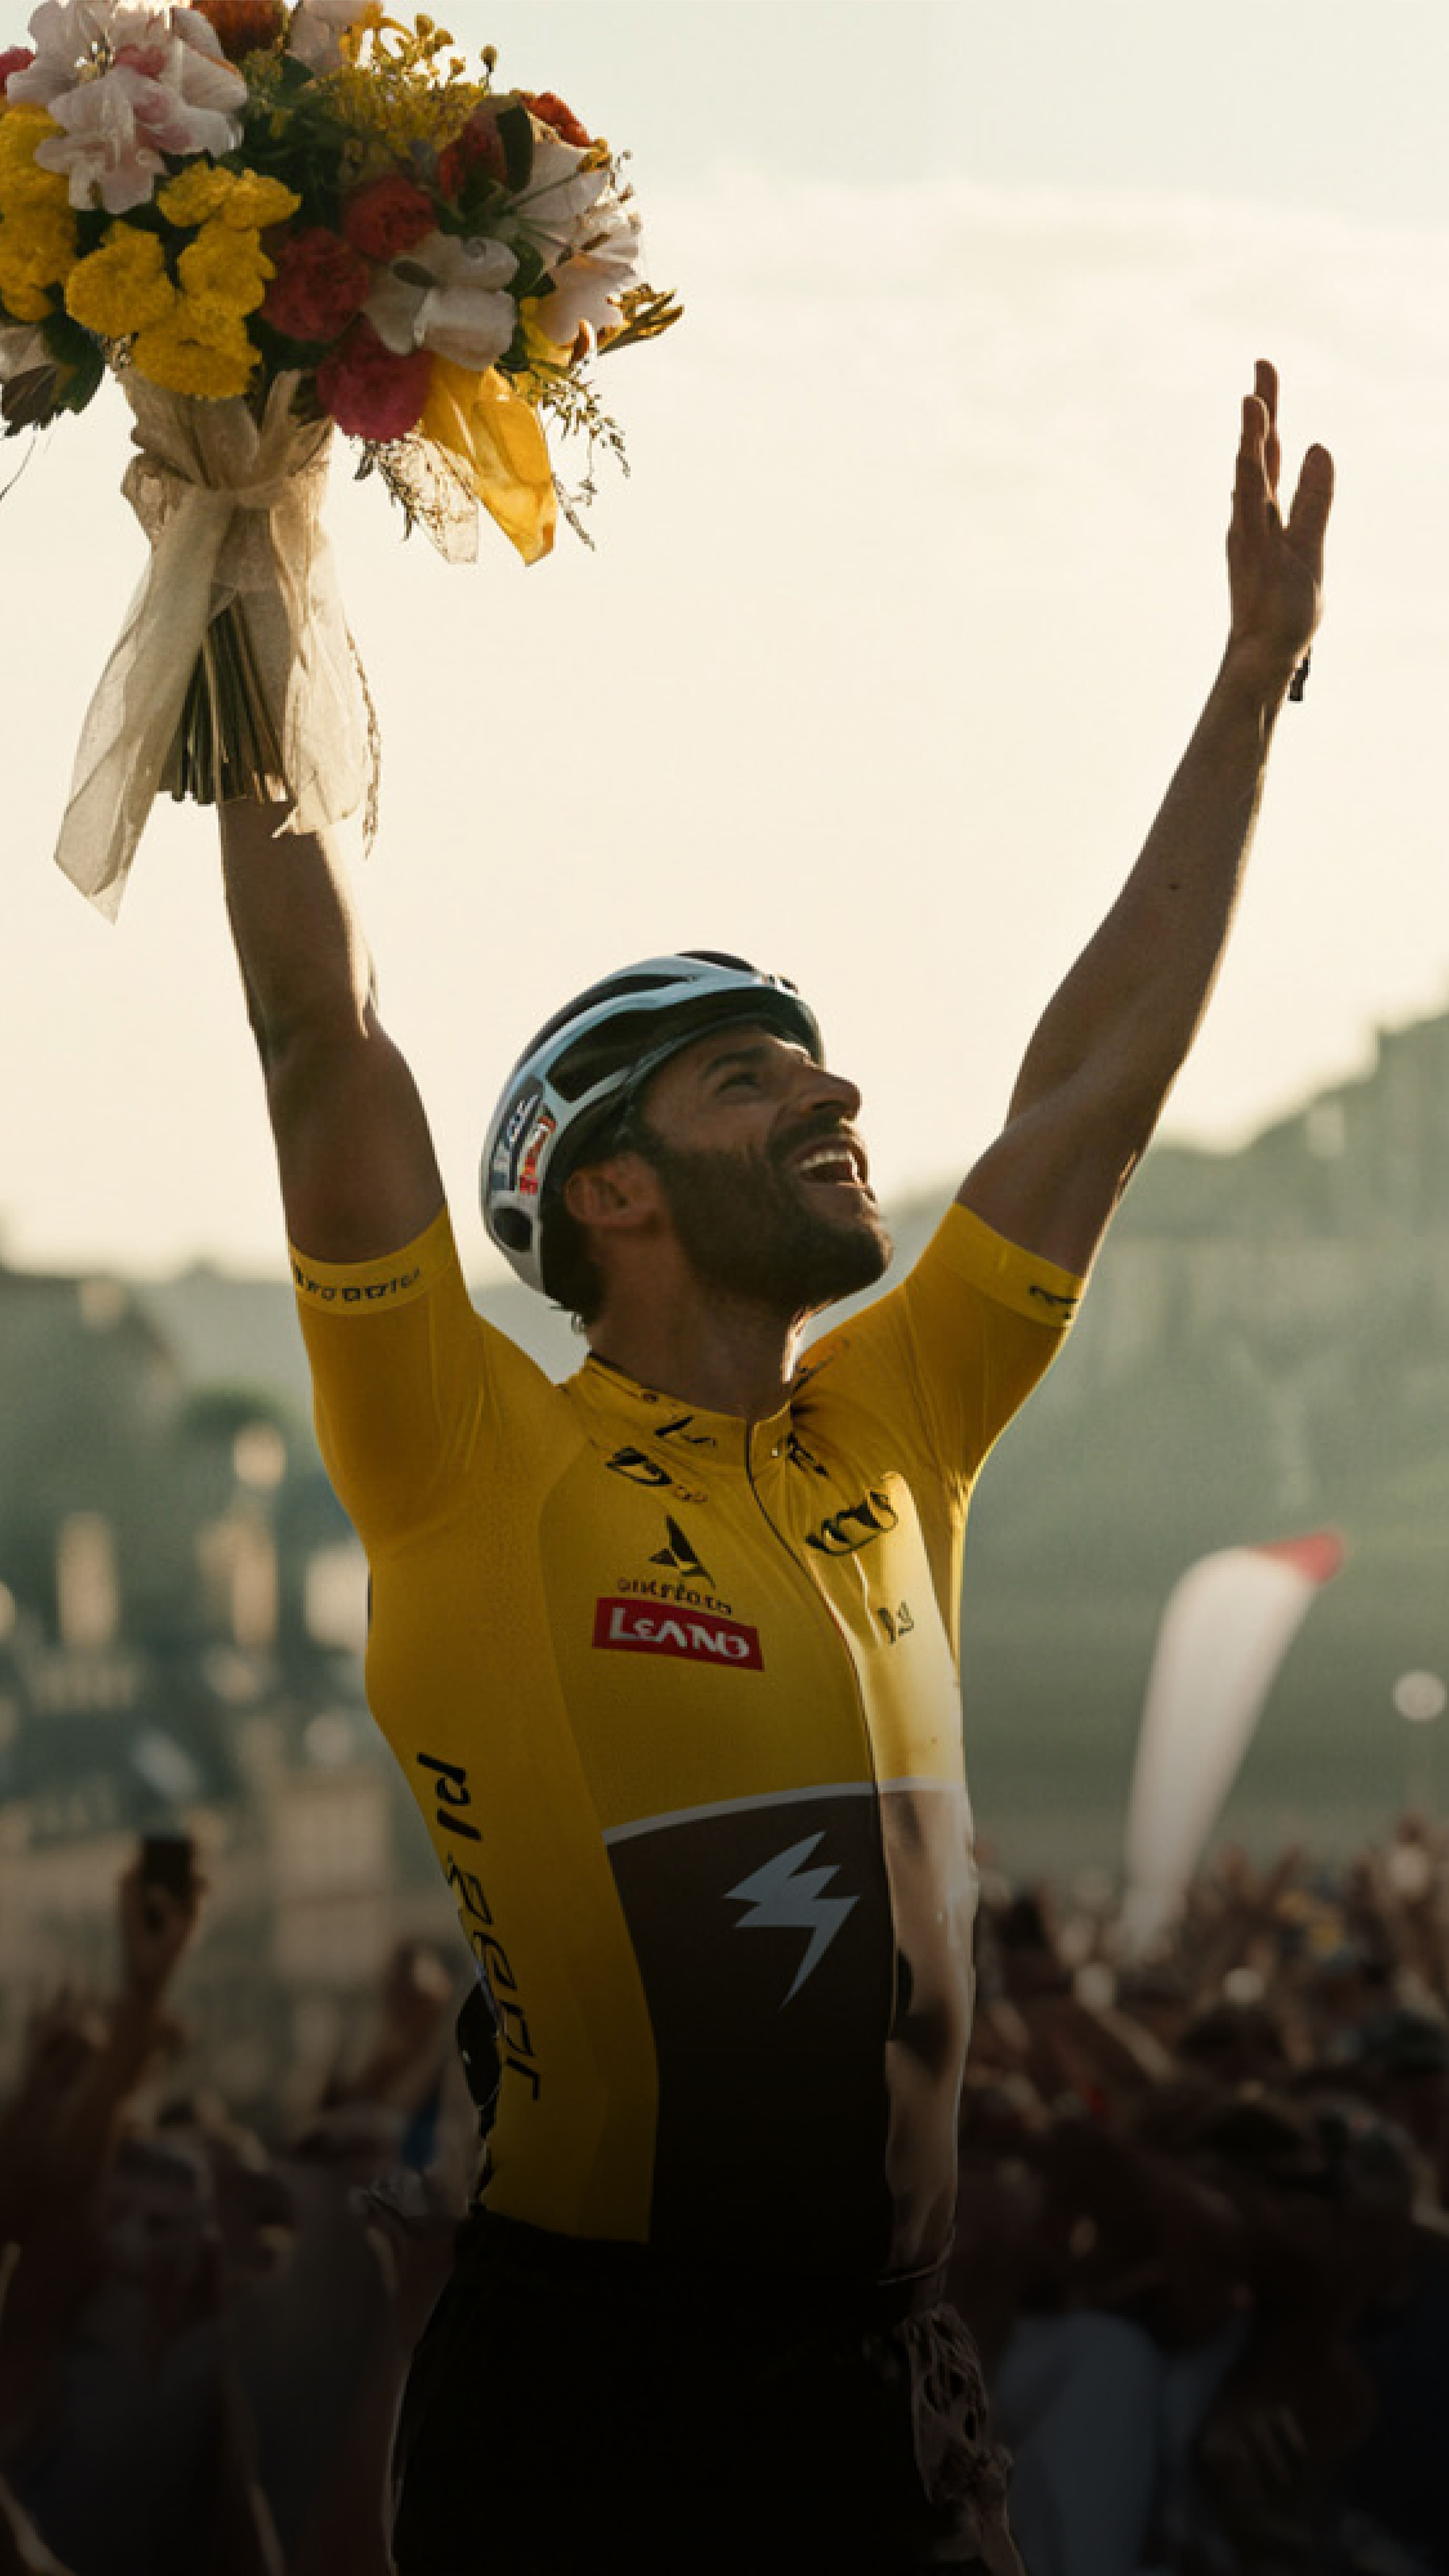
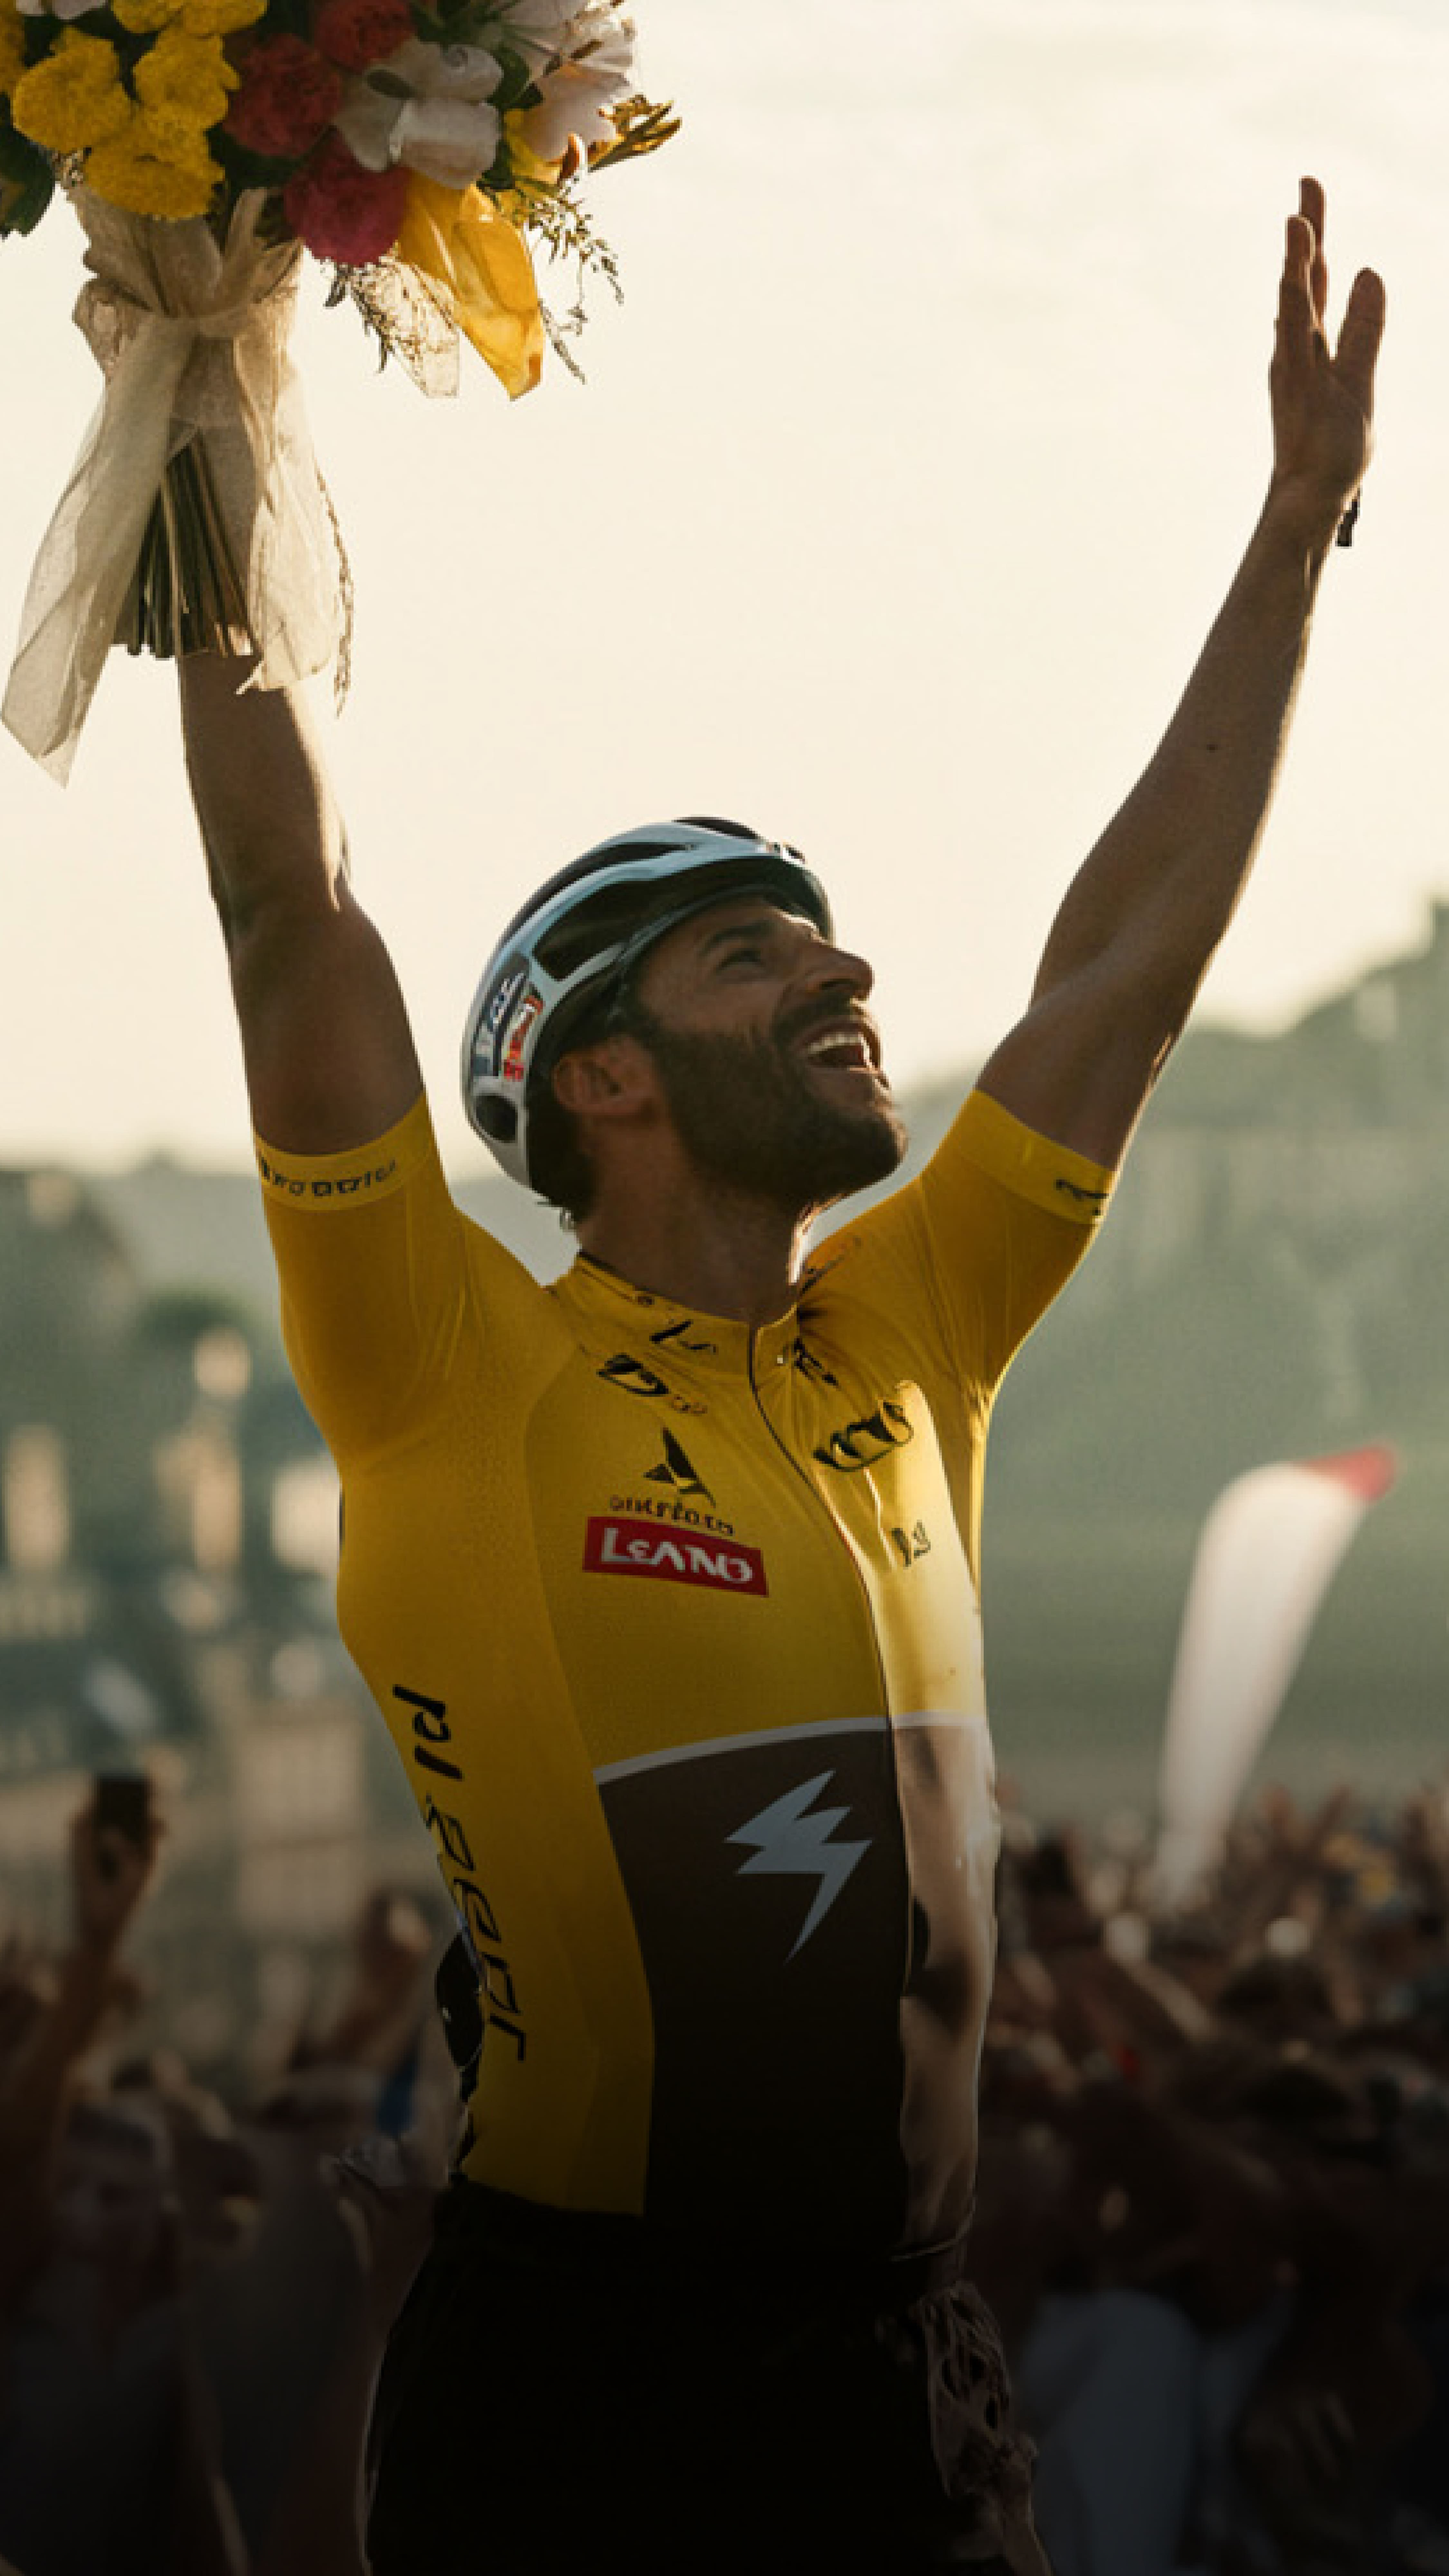
save

diff --git a/src/pages/Production.jsx b/src/pages/Production.jsx
@@ -1,12 +1,22 @@
 // src/pages/Home.js
 import React from 'react';
+import productionbg from "../assets/outstanding.jpg";
+import './Production.css'
 
 function Production() {
   return (
-    <div>
-      <h1>An outstanding production</h1>
-      <p>Bienvenue sur notre site vitrine !</p>
+    <div className="production-container">
+      <div className="production-title">
+        <h1>An Outstanding Production</h1>
+      </div>
+      
+      <div className="production-hero" style={{ backgroundImage: `url(${productionbg})` }}>
+      </div>
+      
+      <div className="production-content">
+        </div>
     </div>
+
   );
 }
 

diff --git a/src/pages/Scripts.jsx b/src/pages/Scripts.jsx
@@ -1,12 +1,21 @@
 // src/pages/Home.js
 import React from 'react';
-
+import scriptsbg from "../assets/scripts-bg.jpg";
+import './Scripts.css'
 function Scripts() {
   return (
-    <div>
-      <h1>SCRIPTS</h1>
-      <p>Bienvenue sur notre site vitrine !</p>
+    <div className="scripts-container">
+      <div className="scripts-title">
+        <h1>Scripts</h1>
+      </div>
+      
+      <div className="scripts-hero" style={{ backgroundImage: `url(${scriptsbg})` }}>
+      </div>
+      
+      <div className="scripts-content">
+        </div>
     </div>
+
   );
 }
 

diff --git a/src/pages/Talents.jsx b/src/pages/Talents.jsx
@@ -1,12 +1,22 @@
 // src/pages/Home.js
 import React from 'react';
+import talentsbg from "../assets/talents.jpg";
+import './Talents.css'
 
 function Talents() {
   return (
-    <div>
-      <h1>Talents</h1>
-      <p>Bienvenue sur notre site vitrine !</p>
+    <div className="talents-container">
+      <div className="talents-title">
+        <h1>Talents</h1>
+      </div>
+      
+      <div className="talents-hero" style={{ backgroundImage: `url(${talentsbg})` }}>
+      </div>
+      
+      <div className="talents-content">
+        </div>
     </div>
+
   );
 }
 

diff --git a/src/pages/Production.css b/src/pages/Production.css
@@ -1,0 +1,32 @@
+/* src/pages/production.css */
+.production-container {
+  min-height: 100vh;
+  display: flex;
+  flex-direction: column;
+}
+
+.production-hero {
+  width: 100%;
+  height: 50dvh;
+  background-size: cover;
+  background-position: center;
+  background-repeat: no-repeat;
+}
+
+.production-title {
+position: absolute;
+top:  25dvh;
+align-self: center;
+z-index: 10000;
+color: white;
+font-size: 2rem;
+}
+
+
+.production-content {
+  flex: 1;
+  max-width: 800px;
+  margin: 0 auto;
+  padding: 60px 20px;
+  width: 100%;
+}

diff --git a/src/pages/Scripts.css b/src/pages/Scripts.css
@@ -1,0 +1,32 @@
+/* src/pages/scripts.css */
+.scripts-container {
+  min-height: 100vh;
+  display: flex;
+  flex-direction: column;
+}
+
+.scripts-hero {
+  width: 100%;
+  height: 50dvh;
+  background-size: cover;
+  background-position: center;
+  background-repeat: no-repeat;
+}
+
+.scripts-title {
+position: absolute;
+top:  25dvh;
+align-self: center;
+z-index: 10000;
+color: white;
+font-size: 2rem;
+}
+
+
+.scripts-content {
+  flex: 1;
+  max-width: 800px;
+  margin: 0 auto;
+  padding: 60px 20px;
+  width: 100%;
+}

diff --git a/src/pages/Talents.css b/src/pages/Talents.css
@@ -1,0 +1,32 @@
+/* src/pages/talents.css */
+.talents-container {
+  min-height: 100vh;
+  display: flex;
+  flex-direction: column;
+}
+
+.talents-hero {
+  width: 100%;
+  height: 50dvh;
+  background-size: cover;
+  background-position: center;
+  background-repeat: no-repeat;
+}
+
+.talents-title {
+position: absolute;
+top:  25dvh;
+align-self: center;
+z-index: 10000;
+color: white;
+font-size: 2rem;
+}
+
+
+.talents-content {
+  flex: 1;
+  max-width: 800px;
+  margin: 0 auto;
+  padding: 60px 20px;
+  width: 100%;
+}
